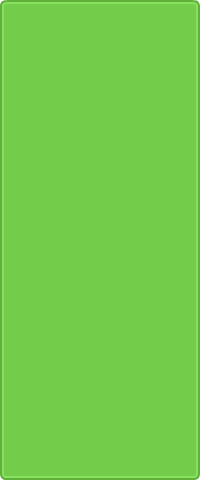
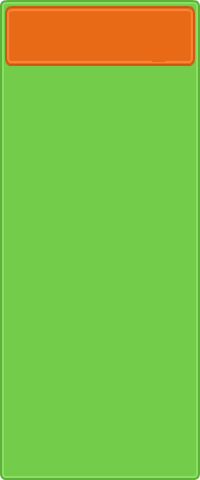
Dorađena pozadina grafičkog sučelja.

Changed region(s): [[0.0, 0.0, 0.99, 0.1562]]

diff --git a/Zavrsni/Zavrsni.py b/Zavrsni/Zavrsni.py
@@ -203,7 +203,6 @@ def main ():
                     pygame.mixer.music.load('glazba/' + odabraniLvl + '.ogg')
                     
                     pygame.mixer.music.play(-1, 0.0)
-                    #pygame.mixer.music.set_volume(0.3)
                     lvl = Mapa(grid, VisinaProzora, SirinaProzora, okolis, put_ravno, put_dole, put_kutLD, put_kutDD, put_kraj, put_kraj_D, put_pocetak_D, put_pocetak_G)
                     tornjevi = []
                     GlZgrada = zgrada(POVRSINA, glavnaZgrada, zgradaHP, kraj, VisinaProzora, SirinaProzora, grid)
@@ -239,15 +238,12 @@ def main ():
                 UI.CrtajAudio(audioON)
             else:
                 UI.CrtajAudio(audioOFF)
-            #print ("Pocetak: ", startVrijeme)
-            #print ("Start: ", startKliknut)
             dmgLista = []
             lvl.crtajMrezu(POVRSINA, start, kraj)
             #neprijatelji
             if startKliknut:
                 if startVrijeme:
                     startVrijeme = 0
-                    #print ("Vrijeme")
                     lvlSeed.postaviVrijeme()
                 #stvaranje neprijatelja
                 elif lvlSeed.vrijeme():
@@ -343,7 +339,6 @@ def main ():
                                         i.upgradeDMG(2) 
                 #gradnja tornja
                 elif not grid[gore][lijevo] == Z and not grid[gore][lijevo] == T:
-                    print(odabraniToranj)
                     #stvaranje tornjeva
                     if odabraniToranj is not None:
                         if odabraniToranj == toranj1:

diff --git a/Zavrsni/sucelje.py b/Zavrsni/sucelje.py
@@ -55,11 +55,11 @@ class sucelje(object):
     def ispisStanja(self, HP, trenutno, ukupno):
         boja = (23, 0, 247)
         lblHP = self.font.render(("Player HP: " + str(HP[0]) + "/" + str(HP[1])), 1, boja)
-        self.POVRSINA.blit(lblHP, (640 + 10, 5))
+        self.POVRSINA.blit(lblHP, (640 + 10, 10))
         lblNovci = self.font.render(("Stanje: " + str(self.pare)), 1, boja)
-        self.POVRSINA.blit(lblNovci, (640 + 10, 20))
+        self.POVRSINA.blit(lblNovci, (640 + 10, 25))
         lblNeprijatelji = self.font.render(("Broj: " + str(trenutno) + "/" + str(ukupno)), 1, boja)
-        self.POVRSINA.blit(lblNeprijatelji, (640 + 10, 35))
+        self.POVRSINA.blit(lblNeprijatelji, (640 + 10, 40))
 
     def postaviMrezu(self, mreza):
         self.mapa = mreza
@@ -325,7 +325,7 @@ class sucelje(object):
 
     def CrtajAudio(self, ikona):
         self.audioRect = ikona.get_rect()
-        self.audioRect.x = 640 + 165
+        self.audioRect.x = 640 + 160
         self.audioRect.y = 10
         self.POVRSINA.blit(ikona, self.audioRect)
 
